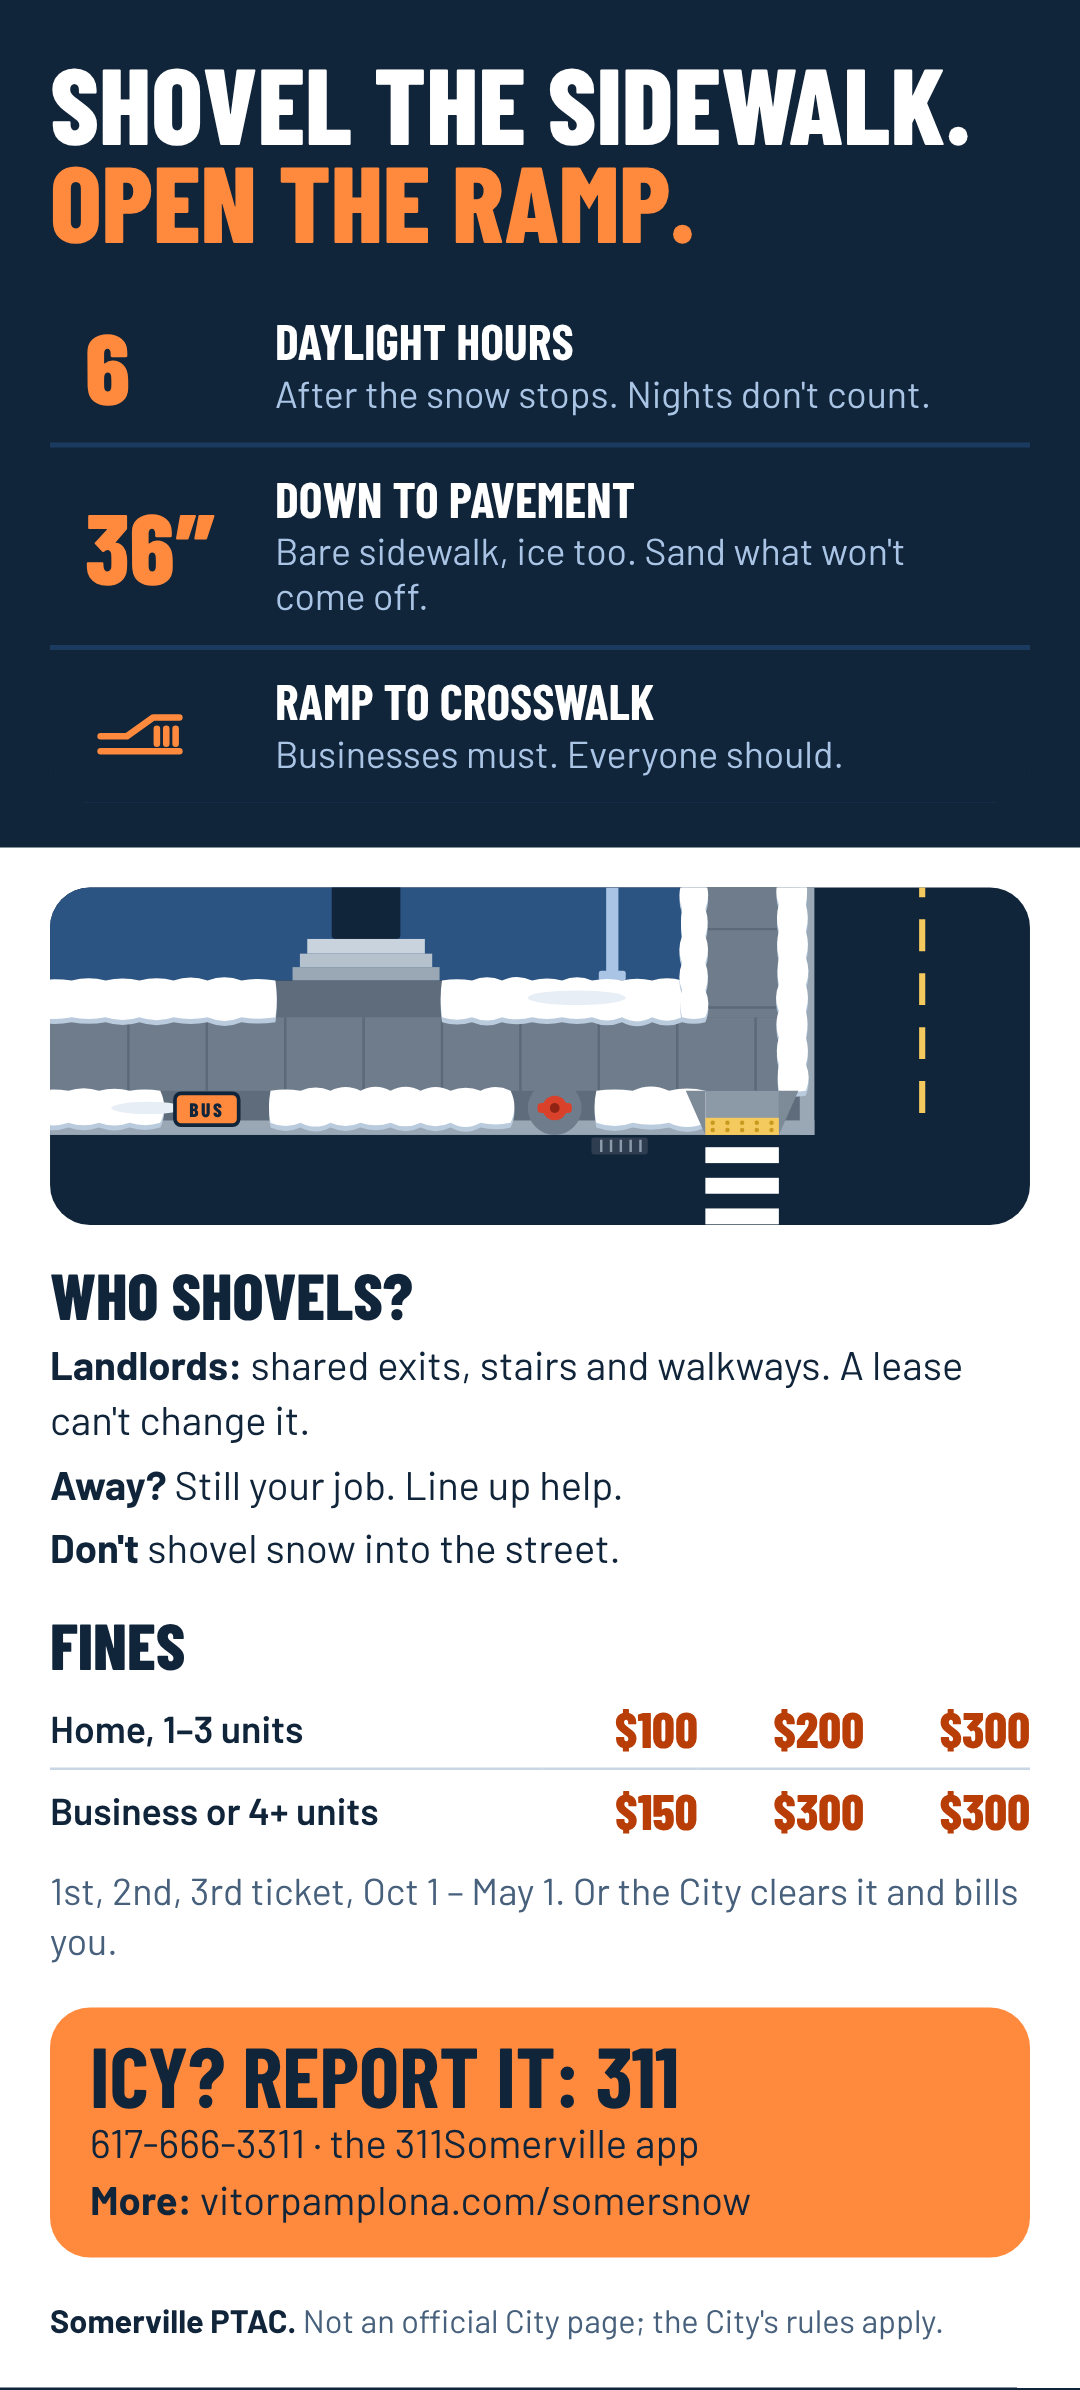
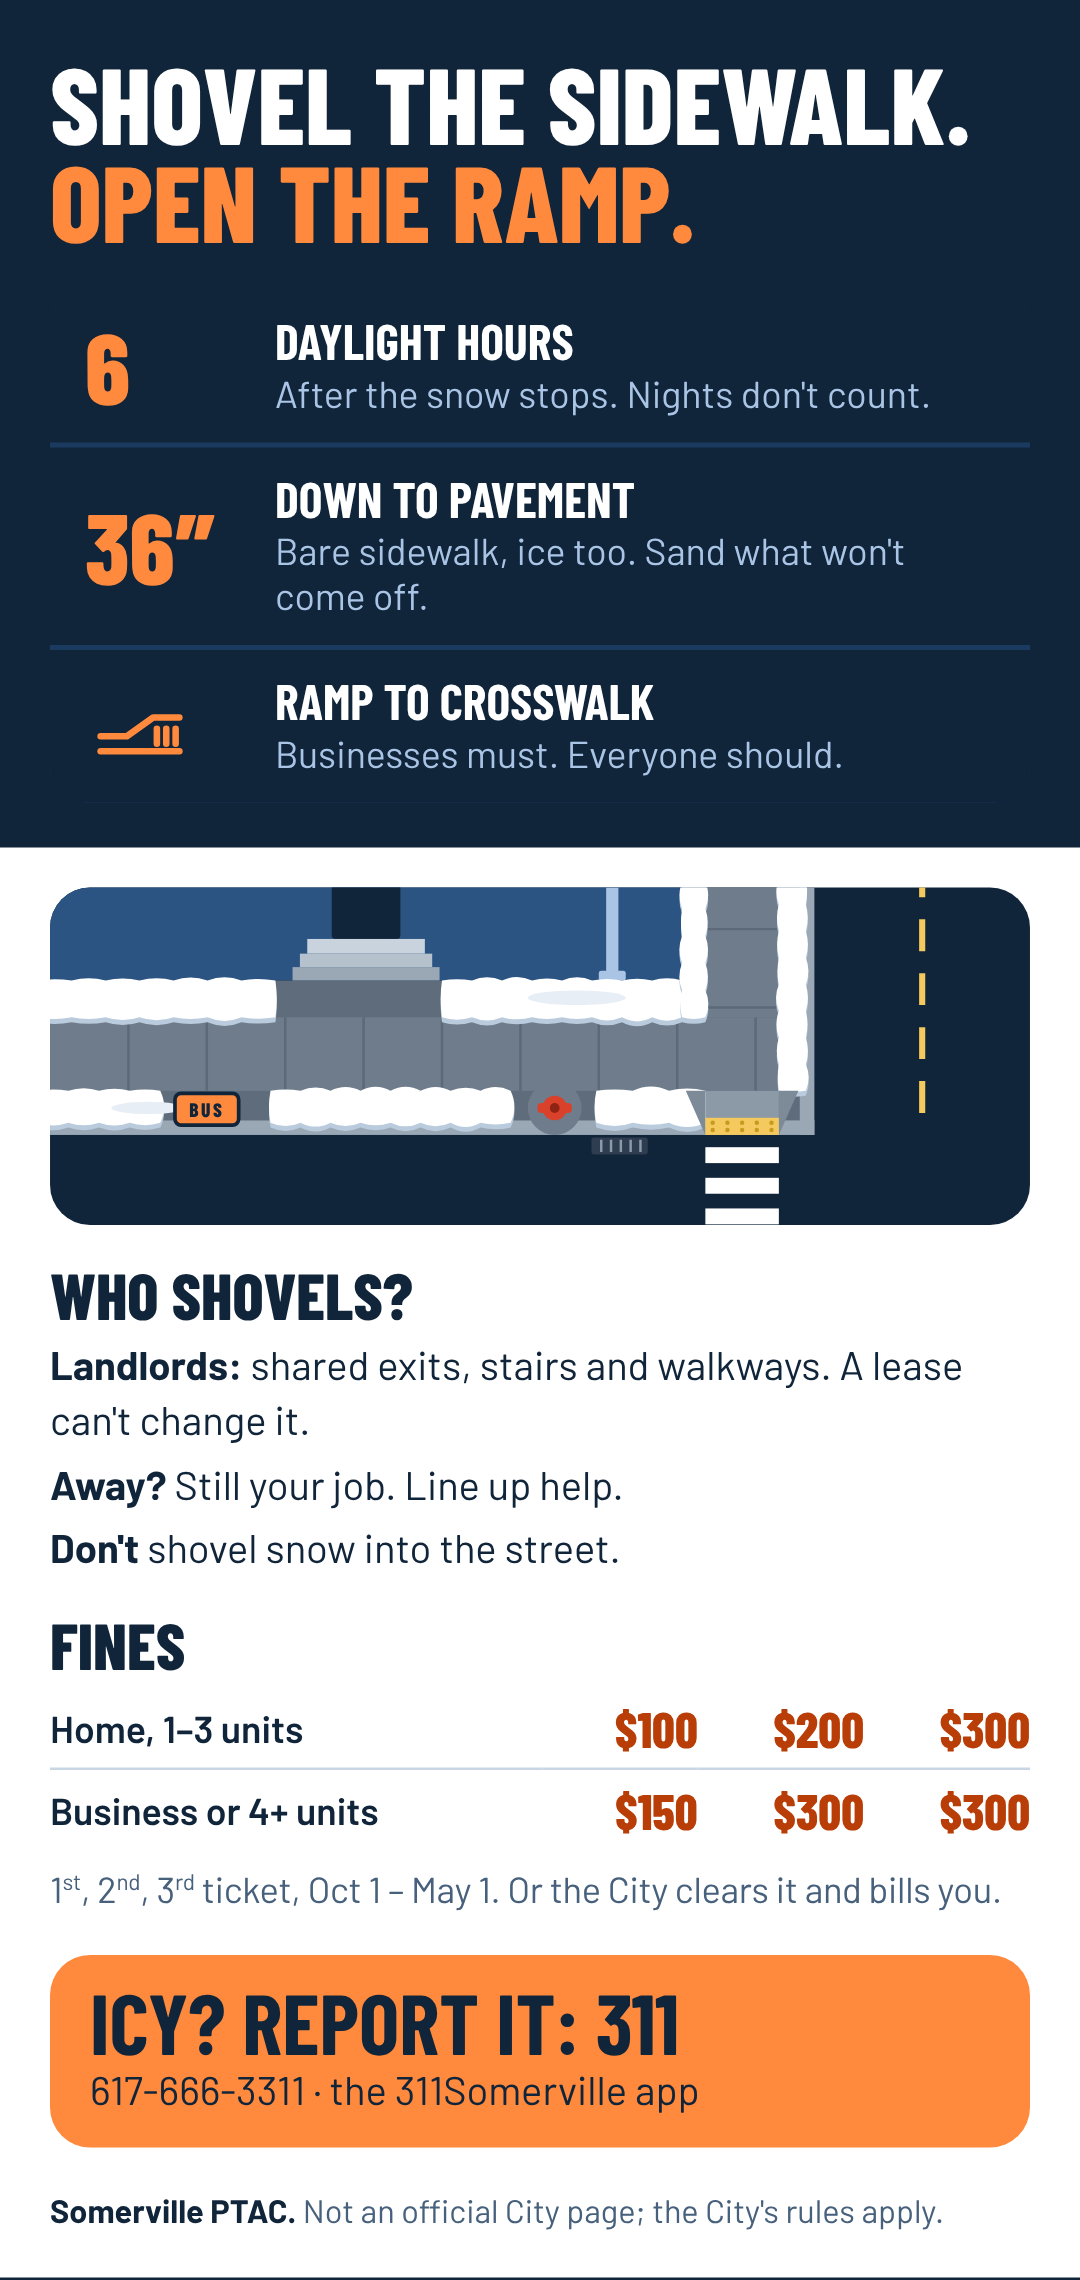
Phone flyer: no site line; 1st, 2nd, 3rd with raised endings, fines note on one line in the image
Claude-Session: https://claude.ai/code/session_01NQ76C6nydNvs9N6wiqQBM6

diff --git a/docs/flyer-phone.html b/docs/flyer-phone.html
@@ -74,7 +74,8 @@ h2{font-size:26px;margin-bottom:6px}
 .fines{font-size:15px}
 .fines th,.fines td{padding:4px 0}
 .fines td{font-size:20px;padding-left:8px}
-.note{font-size:15px;margin-top:6px}
+.note{font-size:14.5px;margin-top:6px;letter-spacing:-.1px}
+.note sup{font-size:.62em;line-height:0;vertical-align:.55em}
 .report{grid-template-columns:1fr;padding:12px 16px}
 .report b.k{font-size:34px}
 .report p{font-size:16px}
@@ -110,14 +111,13 @@ h2{font-size:26px;margin-bottom:6px}
           <tr><th>Home, 1–3 units</th><td>$100</td><td>$200</td><td>$300</td></tr>
           <tr><th>Business or 4+ units</th><td>$150</td><td>$300</td><td>$300</td></tr>
         </table>
-        <p class="note">1st, 2nd, 3rd ticket, Oct 1 – May 1. Or the City clears it and bills you.</p>
+        <p class="note">1<sup>st</sup>, 2<sup>nd</sup>, 3<sup>rd</sup> ticket, Oct 1 – May 1. Or the City clears it and bills you.</p>
       </div>
     </div>
     <div class="report">
       <div>
         <b class="k">Icy? Report it: 311</b>
         <p>617-666-3311 · the 311Somerville app</p>
-        <p><b>More:</b> vitorpamplona.com/somersnow</p>
       </div>
       <img src="qr.svg" alt="QR code to vitorpamplona.com/somersnow">
     </div>
